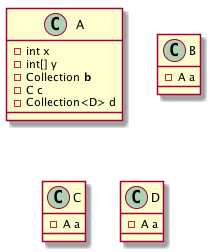
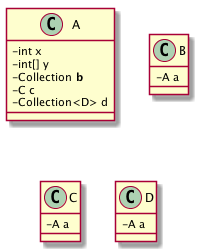
change parser to toString

diff --git a/java-uml-parser/src/main/java/java_uml_parser/MyJavaParser.java b/java-uml-parser/src/main/java/java_uml_parser/MyJavaParser.java
@@ -23,7 +23,7 @@ public class MyJavaParser {
 	private String className;
 	private FileInputStream in = null;
 	private CompilationUnit cu;
-	private StringBuilder result;
+	private StringBuilder result = new StringBuilder();;
 	
 	public MyJavaParser(String directory) {
 		this.javaDir = directory;
@@ -34,13 +34,11 @@ public class MyJavaParser {
 			if (this.in != null) {
 				this.in.close();
 		    }
-		}catch (FileNotFoundException e){
-			System.out.println(e.getMessage());
-		} catch (IOException e) {
+		}catch (IOException e){
 			System.out.println(e.getMessage());
 		}
 		
-		result = new StringBuilder();
+		
 		
 		
 		parseClassType();
@@ -54,6 +52,21 @@ public class MyJavaParser {
 	}
 	
 	private void parseClassType(){
+		
+		
+	}
+	
+	private void parseAttributes(){
+
+		
+	}
+	
+	private void parseMethods(){
+		
+		
+	}
+	
+	public String toString(){
 		
 		this.className = cu.getTypes().get(0).getNameAsString();
 		ClassOrInterfaceDeclaration myclass = (ClassOrInterfaceDeclaration) cu.getTypes().get(0);
@@ -80,10 +93,7 @@ public class MyJavaParser {
 		}
 		result.append(this.className);
 		result.append("\n");
-	}
-	
-	private void parseAttributes(){
-
+		
 		for (FieldDeclaration field : cu.getTypes().get(0).getFields() ) {
 			if(field.getModifiers().contains(PUBLIC)){
 				result.append(this.className + " : + ");
@@ -94,9 +104,6 @@ public class MyJavaParser {
 		    }
 			result.append(field.getCommonType() + " " + field.getVariables().get(0) + "\n");
 		}
-	}
-	
-	private void parseMethods(){
 		
 		for (MethodDeclaration method : cu.getTypes().get(0).getMethods() ) {
 			result.append(this.className + " : " );
@@ -105,6 +112,7 @@ public class MyJavaParser {
 		    }
 			result.append(method.getDeclarationAsString(false, false) + "\n");
 		}
+		return result.toString();
 	}
 	
 }

diff --git a/java-uml-parser/src/main/java/test_java_parser/MyTest.java b/java-uml-parser/src/main/java/test_java_parser/MyTest.java
@@ -1,16 +1,25 @@
 package test_java_parser;
 
 import java.io.FileNotFoundException;
+import java.util.Optional;
 
-import java_uml_parser.MyJavaParser;
+import com.github.javaparser.JavaParser;
+import com.github.javaparser.ast.CompilationUnit;
+import com.github.javaparser.ast.body.ClassOrInterfaceDeclaration;
 
 public class MyTest {
 	public static void main(String[] args) throws FileNotFoundException{
-		String directory = "/Users/bondk/Dropbox/SJSU/CMPE202/00_peronsal_project"
-				+ "/cmpe202-java-uml-parser/java-uml-parser/src/main/resources/uml-parser-test-3/ClassB.java";
-		MyJavaParser par = new MyJavaParser(directory);
-		StringBuilder sb = par.getParsedFile();
-		System.out.println(sb.toString());
+		
+		CompilationUnit compilationUnit = JavaParser.parse("class A { }");
+		Optional<ClassOrInterfaceDeclaration> classA = compilationUnit.getClassByName("A");
+		System.out.println(classA.toString());
+		
+//		String directory = "/Users/bondk/Dropbox/SJSU/CMPE202/00_peronsal_project"
+//				+ "/cmpe202-java-uml-parser/java-uml-parser/src/main/resources/uml-parser-test-3/ClassB.java";
+//		MyJavaParser par = new MyJavaParser(directory);
+//		StringBuilder sb = par.getParsedFile();
+//		System.out.println(sb.toString());
+		
 //		FileInputStream file = new FileInputStream(directory);
 //		CompilationUnit compilationUnit = JavaParser.parse(file);
 //		

diff --git a/java-uml-parser/src/main/java/java_uml_parser/RunMyParser.java b/java-uml-parser/src/main/java/java_uml_parser/RunMyParser.java
@@ -13,22 +13,23 @@ public class RunMyParser {
 		StringBuilder sb = new StringBuilder();
 		for(String javaFile : fileDir.getJavaFiles()){
 			MyJavaParser javaParser = new MyJavaParser(javaFile);
-			sb.append(javaParser.getParsedFile());
+			sb.append(javaParser.toString());
 		}
 		
 		sb.insert(0, "@startuml\n");
+		sb.append("skinparam classAttributeIconSize 0\n");
 		sb.append("@enduml\n");
 		System.out.println(sb.toString());
 		
 		
-		String pngDir = "/Users/bondk/Dropbox/SJSU/CMPE202/00_peronsal_project"
-				+ "/cmpe202-java-uml-parser/java-uml-parser/src/main/resources/output.png";
-		OutputStream png = new FileOutputStream(pngDir);
-		SourceStringReader reader = new SourceStringReader(sb.toString());
-		// Write the first image to "png"
-		String desc = reader.generateImage(png);
-		System.out.println(desc);
-		// Return a null string if no generation
+//		String pngDir = "/Users/bondk/Dropbox/SJSU/CMPE202/00_peronsal_project"
+//				+ "/cmpe202-java-uml-parser/java-uml-parser/src/main/resources/output.png";
+//		OutputStream png = new FileOutputStream(pngDir);
+//		SourceStringReader reader = new SourceStringReader(sb.toString());
+//		// Write the first image to "png"
+//		String desc = reader.generateImage(png);
+//		System.out.println(desc);
+//		// Return a null string if no generation
 
 	}
 }
